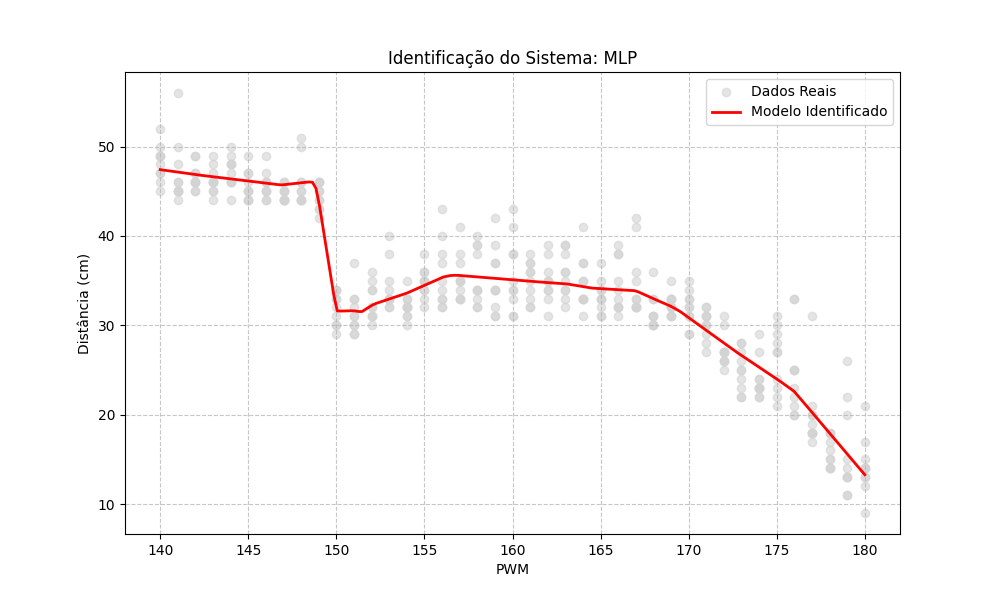
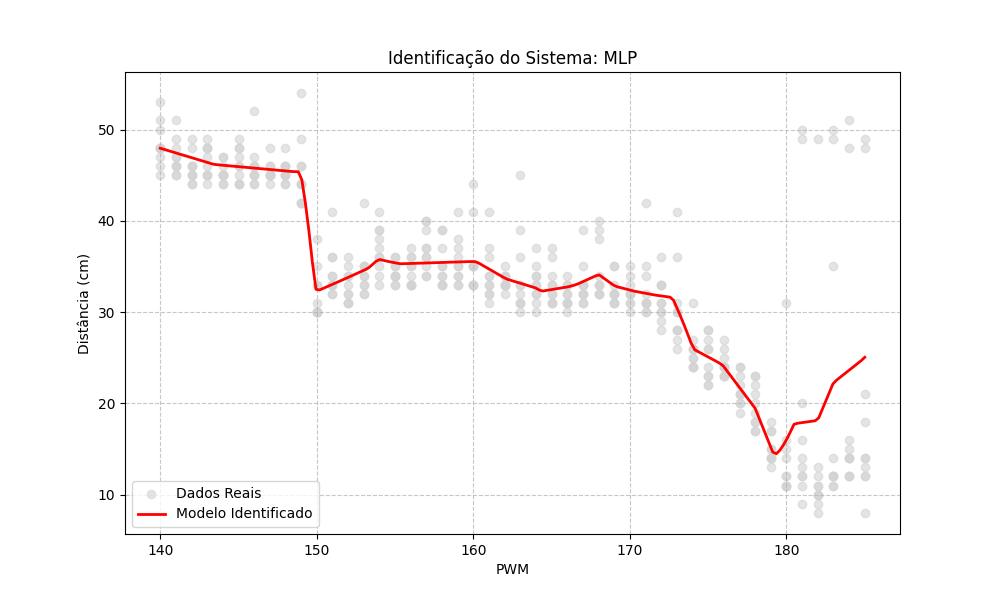
feat: diminuindo o kp gerado pelo GA
Adicionei o esforço do controlador no calculo do fitness, fiz isso adicionando o pwm no calculo do custo.

diff --git a/Controle/controleGA.py b/Controle/controleGA.py
@@ -1,5 +1,19 @@
 import numpy as np
 
+"""
+teste antes das mudanças
+===== RESULTADOS FINAIS =====
+Kp (50→45): 2.7643
+Kp (45→40): 1.7239
+Kp (40→35): 2.4232
+Kp (35→30): 1.6655
+Kp (30→25): 2.8445
+Kp (25→20): 1.7355
+Kp (20→15): 1.9110
+Kp (15→10): 2.4834
+Kp (10→5):  3.3970
+Kp (5→0):  1.6049
+"""
 
 # ======================================================
 # 1) Modelo da planta (MLP)
@@ -17,22 +31,24 @@ def modelo_mlp(pwm, mlp, scaler_X, scaler_y):
 def simular_P_unico(Kp, referencia, mlp, scaler_X, scaler_y):
     dist = 0
     erros = []
+    pwms = []
 
     for _ in range(150):  # passos da simulação
         erro = referencia - dist
         pwm = np.clip(Kp * erro, 140, 180)
         dist = modelo_mlp(pwm, mlp, scaler_X, scaler_y)
         erros.append(erro)
+        pwms.append(pwm)
 
-    return np.array(erros)
+    return np.array(erros), np.array(pwms)
 
 
 # ======================================================
 # 3) FITNESS — quanto menor melhor
 # ======================================================
-def fitness_P_unico(Kp, referencia, mlp, scaler_X, scaler_y):
-    erros = simular_P_unico(Kp, referencia, mlp, scaler_X, scaler_y)
-    mse = np.mean(erros**2)
+def fitness_P_unico(Kp, referencia, mlp, scaler_X, scaler_y, lambda_u=0.01):
+    erros, pwms = simular_P_unico(Kp, referencia, mlp, scaler_X, scaler_y)
+    mse = np.mean(erros**2) + lambda_u * np.mean(pwms**2) # Mudança: adicionando pwm no custo, simulando o esforço do controlador
     return mse
 
 
@@ -43,7 +59,7 @@ def GA_encontrar_Kp(mlp, scaler_X, scaler_y, referencia,
                     pop_size=30, geracoes=30,
                     prob_reproducao=0.8, taxa_mutacao=0.2):
 
-    pop = np.random.uniform(0, 5, size=(pop_size,))
+    pop = np.random.uniform(0, 5, size=(pop_size,)) ## possivel mudança: pop = np.random.uniform(0, 1.5), diminuindo o intervalo do Kp
 
     for g in range(geracoes):
 
@@ -104,7 +120,7 @@ if __name__ == "__main__":
 
     print("\nIniciando busca de Kp por intervalo...\n")
 
-    referencias = [45, 40, 35, 30, 25, 20, 15, 10, 5, 0]  # centro dos intervalos
+    referencias = [45] # [45, 40, 35, 30, 25, 20, 15, 10, 5, 0]  # centro dos intervalos
 
     Kp_otimizados = []
 

diff --git a/Identificacao/modeloID/mlp.py b/Identificacao/modeloID/mlp.py
@@ -7,10 +7,10 @@ from sklearn.preprocessing import StandardScaler
 from sklearn.metrics import mean_squared_error, r2_score
 
 try:
-    df = pd.read_csv('Identificacao/dados_pwm.csv')
+    df = pd.read_csv('Identificacao/dados_pwm1.csv')
     print("Dados carregados com sucesso!")
 except FileNotFoundError:
-    print("Erro: Arquivo 'dados_pwm.csv' não encontrado.")
+    print("Erro: Arquivo 'dados_pwm1.csv' não encontrado.")
     exit()
 
 X = df[['PWM']].values

diff --git a/Controle/kp_resultados.h b/Controle/kp_resultados.h
@@ -1,5 +1,5 @@
-#define KP_50_40 1.9163
-#define KP_40_30 1.8633
-#define KP_30_20 1.6044
-#define KP_20_10 2.4868
-#define KP_10_0  2.4335
+#define KP_50_40 2.7643
+#define Kp_40_30 1.7239
+#define Kp_30_20 2.4232
+#define Kp_20_10 1.6655
+#define Kp_10_0  2.8445
